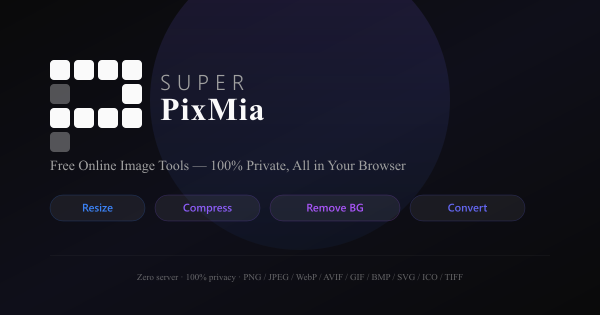
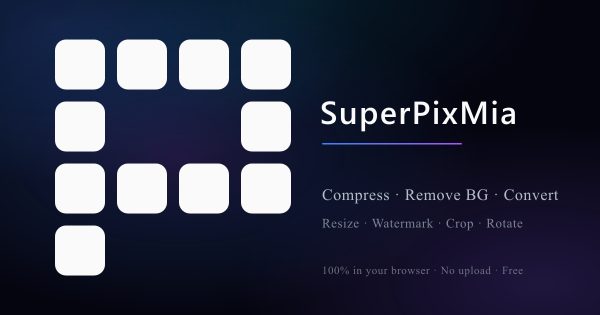
feat(share): bilingual OG covers — Chinese square for WeChat, English landscape for FB/Twitter
- Chinese square (og-image-square) stays the default og:image → WeChat / Baidu keep Chinese card
- English landscape (og-image.jpg) for twitter:image + Facebook/WhatsApp/LinkedIn/Discord/etc.
- middleware.ts: detect overseas crawlers by UA and swap og:image → English 1200x630
- og:image dims updated to 1024x1024; blue-purple dark effect, near-black (#050510) background

diff --git a/middleware.ts b/middleware.ts
@@ -1,10 +1,14 @@
-// Vercel Edge Middleware — Chinese SEO: serve zh meta tags + zh structured data
-// to Chinese users & Baidu spider, per route.
+// Vercel Edge Middleware — Chinese SEO + crawler-aware share cards.
 //
-// English title/desc/JSON-LD is already baked into each prerendered static page
-// by scripts/prerender.mjs. For accept-language zh, this swaps in the Chinese
-// title/description/keywords/OG and injects Chinese FAQPage/HowTo JSON-LD. The
-// SPA then hydrates into Chinese UI via ?lang= / navigator detection.
+// 1. Chinese SEO: serve zh meta tags + zh structured data to Chinese users &
+//    Baidu spider, per route. English title/desc/JSON-LD is already baked into
+//    each prerendered static page by scripts/prerender.mjs. For accept-language
+//    zh, swap in the Chinese title/description/keywords/OG + Chinese JSON-LD.
+//    The SPA then hydrates into Chinese UI via ?lang= / navigator detection.
+// 2. Crawler-aware og:image: WeChat / China keep the Chinese square card
+//    (og-image-square.jpg, the static default), while overseas platform
+//    crawlers (Facebook/WhatsApp/Twitter/LinkedIn/Discord/…) get the ENGLISH
+//    landscape card (og-image.jpg, 1200×630).
 import { getRouteSeo } from './src/lib/seo'
 import { ldToScript, zhToolLd, zhHomeFaqLd, zhArticleLd } from './src/lib/seo-jsonld'
 import type { ToolType } from './src/types'
@@ -58,9 +62,13 @@ export default async function middleware(request: Request): Promise<Response> {
   }
 
   const acceptLang = request.headers.get('accept-language') || ''
+  const ua = request.headers.get('user-agent') || ''
   const isChinese = /^zh|,zh|zh-/i.test(acceptLang)
+  // Overseas platform crawlers → serve the ENGLISH share card. WeChat / Baidu /
+  // regular users keep the Chinese square (static default in index.html).
+  const isForeignCrawler = /facebookexternalhit|Facebot|Twitterbot|LinkedInBot|Discordbot|Slackbot|TelegramBot|Redditbot|Pinterest/i.test(ua)
 
-  if (!isChinese) {
+  if (!isChinese && !isForeignCrawler) {
     return fetch(request)
   }
 
@@ -70,6 +78,23 @@ export default async function middleware(request: Request): Promise<Response> {
   }
 
   let html = await res.text()
+
+  // Foreign crawlers: swap the Chinese square (WeChat) for the ENGLISH landscape
+  // card. twitter:image already points at the English og-image.jpg in index.html.
+  if (isForeignCrawler) {
+    html = html.replace(
+      /<meta property="og:image"[^>]*>/,
+      '<meta property="og:image" content="https://www.superpixmia.com/og-image.jpg" />'
+    )
+    html = html.replace(
+      /<meta property="og:image:width"[^>]*>/,
+      '<meta property="og:image:width" content="1200" />'
+    )
+    html = html.replace(
+      /<meta property="og:image:height"[^>]*>/,
+      '<meta property="og:image:height" content="630" />'
+    )
+  }
 
   const seo = getRouteSeo(path)
   const zh = seo.zh

diff --git a/index.html b/index.html
@@ -38,8 +38,8 @@
     <meta property="og:description" content="Resize, compress, remove backgrounds, and convert images between 9 formats — all in your browser. No upload, no ads, 100% private. Built for developers &amp; designers." />
     <meta property="og:url" content="https://www.superpixmia.com/" />
     <meta property="og:image" content="https://www.superpixmia.com/og-image-square.jpg" />
-    <meta property="og:image:width" content="512" />
-    <meta property="og:image:height" content="512" />
+    <meta property="og:image:width" content="1024" />
+    <meta property="og:image:height" content="1024" />
     <meta property="og:image:type" content="image/jpeg" />
     <meta property="og:image:alt" content="SuperPixMia — Free online image tools, 100% browser-based" />
     <meta property="og:locale" content="en_US" />
@@ -58,7 +58,7 @@
     <meta name="twitter:creator" content="@superpixmia" />
     <meta name="twitter:title" content="SuperPixMia — Free Online Image Tools | 100% Browser-Based" />
     <meta name="twitter:description" content="Resize, compress, remove backgrounds &amp; convert images. All in your browser. No upload, no ads, 100% private." />
-    <meta name="twitter:image" content="https://www.superpixmia.com/og-image-square.jpg" />
+    <meta name="twitter:image" content="https://www.superpixmia.com/og-image.jpg" />
     <meta name="twitter:image:alt" content="SuperPixMia — Free online image toolkit for developers and designers" />
 
     <!-- ── Structured Data: Organization ── -->
@@ -223,7 +223,7 @@
   </head>
   <body>
     <!-- Hidden img for WeChat share thumbnail (SPA has no <img> in initial DOM, WeChat JS bridge needs one) -->
-    <img src="https://www.superpixmia.com/og-image.jpg" alt="SuperPixMia" style="width:0;height:0;position:absolute;visibility:hidden;" />
+    <img src="https://www.superpixmia.com/og-image-square.jpg" alt="SuperPixMia" style="width:0;height:0;position:absolute;visibility:hidden;" />
     <!-- Chinese browser detection -->
     <script>
       (function() {
